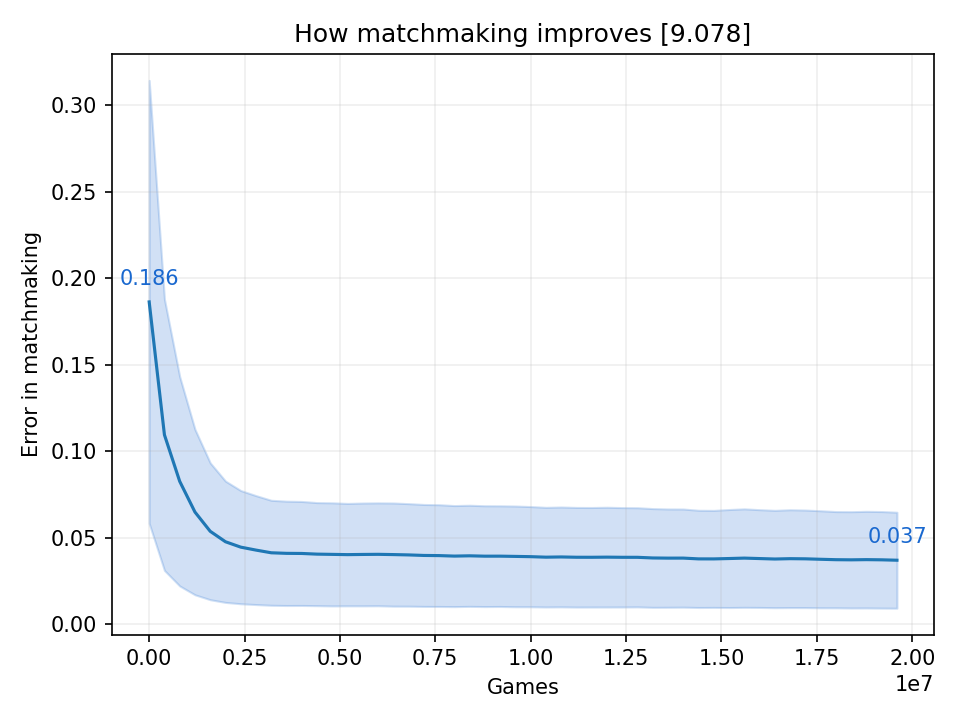
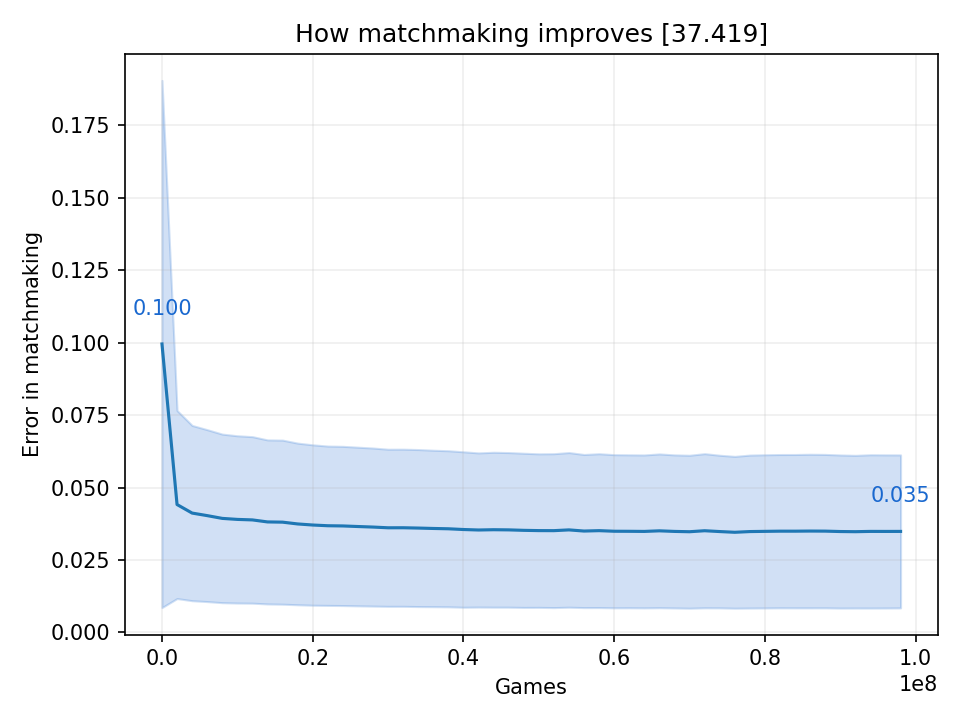
New tweaks

diff --git a/main.cpp b/main.cpp
@@ -68,13 +68,9 @@ public:
     Naive_strategy(double pK, double pMult)
     {
         if (pK != -1)
-        {
             offset = pK;
-        }
         if (pMult != -1)
-        {
             multiplier = pMult;
-        }
         std::cout << "NAIVE strategy (" << offset << ", " << multiplier << ")";
     }
     // Checks if the match between players would be a good based on MMR
@@ -113,9 +109,7 @@ public:
     ELO_strategy(double pK)
     {
         if (pK != -1)
-        {
             K = pK;
-        }
         std::cout << "ELO strategy (" << K << ")";
     }
     // Checks if the match between players would be a good based on MMR
@@ -140,7 +134,6 @@ public:
         winner.predicted_chances.push_back(Ew);
         loser.predicted_chances.push_back(El);
 
-        // printf("Winner (%f) | Loser (%f) | Expected: %f Actual: %f | +%f \n", winner.mmr, loser.mmr, Ew, actual_chances, K * El);
         winner.mmr += K * El;
         loser.mmr -= K * El;
 
@@ -165,17 +158,11 @@ public:
     Tweaked_ELO_strategy(double pK, double pKK, int pgame_div)
     {
         if (pK != -1)
-        {
             K = pK;
-        }
         if (pKK != -1)
-        {
             KK = pKK;
-        }
         if (pgame_div != -1)
-        {
             game_div = pgame_div;
-        }
         std::cout << "Tweaked_ELO strategy (" << K << ", " << KK << ", " << game_div << ")";
     }
     // Checks if the match between players would be a good based on MMR
@@ -327,34 +314,6 @@ public:
         play_games(static_cast<int>(number));
     }
 };
-
-// Saves player data into a json file for additional analysis
-// Extremely slow to create a string or write (e.g 250MB). C-extension for Python is much faster.
-void save_player_data(const std::vector<Player> &players)
-{
-    std::string s = "[\n";
-
-    // Get player data
-    for (const Player &p : players)
-    {
-        s += str("{\"skill\": ", p.skill, ", \"mmr\": ", p.mmr, ", \"opponent_history\": ", str(p.opponent_history));
-        s += str(", \"mmr_history\": ", str(p.mmr_history), ", \"predicted_chances\": ", str(p.predicted_chances), "},\n");
-    }
-    s.erase(s.end() - 2, s.end());
-    s += "\n]";
-
-    // Save data
-    std::ofstream myfile("data.json");
-    if (myfile.is_open())
-    {
-        myfile << s << std::endl;
-        myfile.close();
-    }
-    else
-    {
-        print("Failed to save data to json!");
-    }
-}
 
 // Creates simulation, runs it, and returns a reference to it
 std::unique_ptr<Simulation> run_sim(int players, int iterations, int sp1, int sp2, int sp3, std::string strategy_type, bool gradual = false)

diff --git a/sim.cpp b/sim.cpp
@@ -69,17 +69,11 @@ static PyObject *run_simulation(PyObject *self, PyObject *args)
     // Get data for players
     PyObject *Result_Players = PyList_New(0);
     for (const Player &p : sim->players)
-    {
         PyList_Append(Result_Players, Py_BuildValue("O", get_player_data(p)));
-    }
 
-    //Get prediction data
     PyObject *Result_Predictions = get_np_array(sim->prediction_difference);
-
-    //Get match accuracy data
     PyObject *Result_MatchAccuracy = get_np_array(sim->match_accuracy);
 
-    // Prepare data to be send away
     PyObject *Result = PyList_New(0);
     PyList_Append(Result, Result_Players);
     PyList_Append(Result, Result_Predictions);
@@ -103,15 +97,12 @@ static PyObject *run_parameter_optimization(PyObject *self, PyObject *args)
     {
         pred_sum += sim->prediction_difference[i];
         if (i + LATE_GAMES >= sim->prediction_difference.size())
-        {
             pred_sum_late += sim->prediction_difference[i];
-        }
     }
 
     PyObject *Result = PyList_New(0);
     PyList_Append(Result, Py_BuildValue("f", pred_sum / 100000));
     PyList_Append(Result, Py_BuildValue("f", pred_sum_late / LATE_GAMES));
-
     return Result;
 }
 

diff --git a/compare_strategies.py b/compare_strategies.py
@@ -1,7 +1,8 @@
+import time
+
 import matplotlib.pyplot as plt
 import matplotlib.ticker as mtick
 import numpy as np
-import time
 
 import psimulation
 
@@ -38,9 +39,9 @@ for idx, strategy in enumerate(strategy_types):
     match_accuracy = smooth(match_accuracy, BINS)
 
     # Plot & save legend
-    p = ax[1].plot(x, match_accuracy)
+    p = ax[1].plot(x * GAMES / BINS, match_accuracy)
     color = p[0].get_color()
-    ax[0].plot(x, prediction_differences, color=color)
+    ax[0].plot(x * GAMES / BINS, prediction_differences, color=color)
 
 ax[0].set_title(
     f"How a matchmaking strategy gets better at predicting outcomes")

diff --git a/analyse.py b/analyse.py
@@ -13,8 +13,9 @@ start = time.time()
 
 ### RUN SIMULATION
 PLAYERS = 20000
-GAMES = 20000000
-data, prediction_differences = psimulation.run_simulation(PLAYERS, GAMES)
+GAMES = 100000000
+data, prediction_differences, match_accuracy = psimulation.run_simulation(
+    PLAYERS, GAMES, "tweaked_elo")
 
 ### PLOTTING
 start_plotting = time.time()
